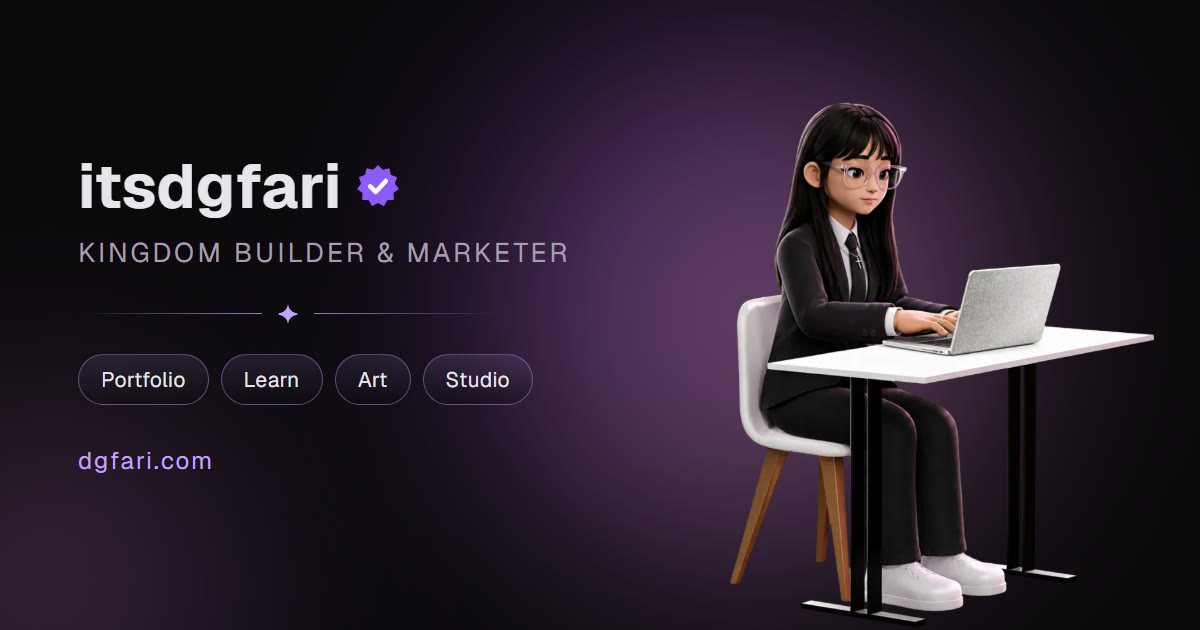
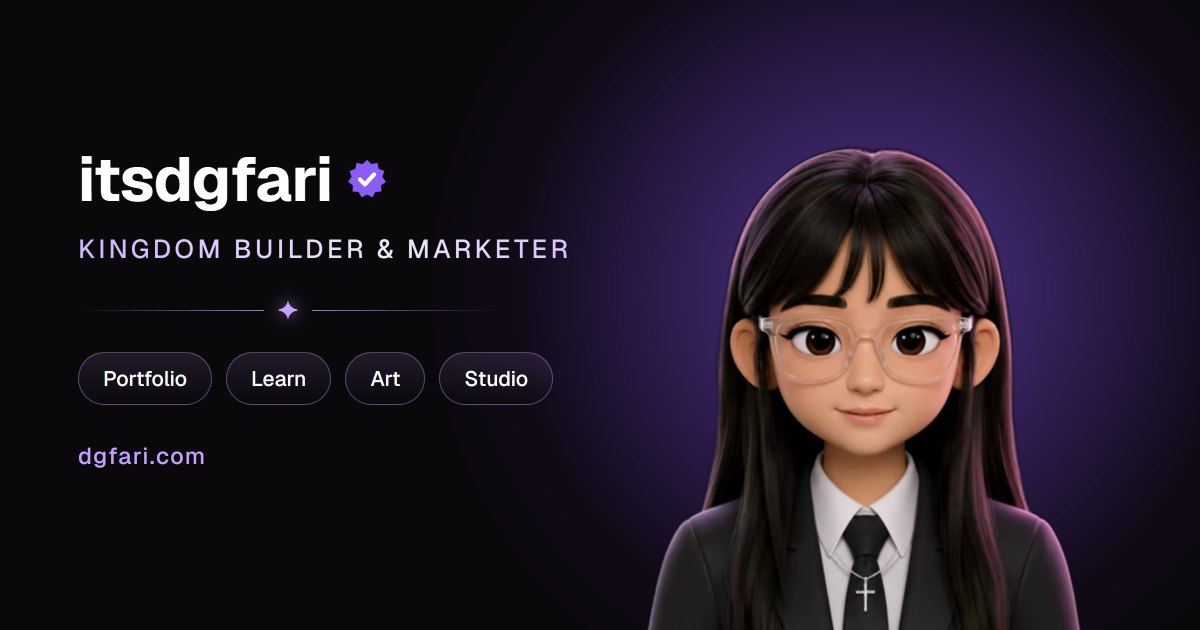
Put the hero character on the link preview card
The card carried the What I Do clip, a small full-body figure at a desk.
It now carries the first frame of the hero video, which is the face that
opens the portfolio and the one worth leading with at the size a preview
actually appears.

Extracted from hero.webm with its alpha intact rather than reusing the
22KB display poster, composed as a portrait that bleeds off the bottom
edge with the violet bloom recentred on her head, and rendered at 2x then
resampled so the type stays sharp.

58KB, down from 65KB. The ?v= query is bumped in all four places it
appears, since every unfurler caches these by URL and would otherwise keep
showing the old card for weeks.

The template, the render script and the extracted frame are kept in
source-assets/og with the steps to redo it.

diff --git a/source-assets/og/og-template.html b/source-assets/og/og-template.html
@@ -1,0 +1,150 @@
+<!doctype html>
+<html>
+<head>
+<meta charset="utf-8">
+<link rel="preconnect" href="https://fonts.googleapis.com">
+<link rel="preconnect" href="https://fonts.gstatic.com" crossorigin>
+<link href="https://fonts.googleapis.com/css2?family=Geist:wght@100..900&display=swap" rel="stylesheet">
+<style>
+  *, *::before, *::after { box-sizing: border-box; }
+  html, body { margin: 0; padding: 0; background: #0b080c; }
+  .card {
+    position: relative;
+    width: 1200px;
+    height: 630px;
+    overflow: hidden;
+    background: #0b080c;
+    font-family: "Geist", system-ui, sans-serif;
+    color: #fff;
+  }
+
+  /* The same violet bloom the character sits inside on the site, centred on
+     her head rather than on the middle of the card. */
+  .glow {
+    position: absolute;
+    top: -160px;
+    left: 424px;
+    width: 900px;
+    height: 900px;
+    border-radius: 50%;
+    background: radial-gradient(
+      circle at center,
+      rgba(139, 92, 246, 0.55) 0%,
+      rgba(120, 70, 220, 0.3) 34%,
+      rgba(60, 30, 110, 0.12) 56%,
+      rgba(11, 8, 12, 0) 72%
+    );
+  }
+
+  .hero {
+    position: absolute;
+    right: 6px;
+    bottom: -16px;
+    width: 668px;
+    height: auto;
+  }
+
+  .left {
+    position: absolute;
+    left: 78px;
+    top: 148px;
+    width: 560px;
+  }
+
+  h1 {
+    display: flex;
+    align-items: center;
+    gap: 14px;
+    margin: 0;
+    font-size: 62px;
+    font-weight: 700;
+    letter-spacing: -0.5px;
+    line-height: 1;
+  }
+
+  .badge { width: 40px; height: 40px; flex-shrink: 0; overflow: visible; }
+
+  .tag {
+    margin: 22px 0 0;
+    font-size: 26px;
+    font-weight: 500;
+    letter-spacing: 3.4px;
+    background: linear-gradient(90deg, #cbb6ff 0%, #efe9f6 55%, #cbb6ff 100%);
+    -webkit-background-clip: text;
+    background-clip: text;
+    color: transparent;
+  }
+
+  .rule {
+    display: flex;
+    align-items: center;
+    gap: 14px;
+    width: 420px;
+    margin: 34px 0 0;
+  }
+  .rule span {
+    flex: 1;
+    height: 1px;
+    background: linear-gradient(90deg, transparent, rgba(194, 164, 255, 0.75));
+  }
+  .rule span:last-child {
+    background: linear-gradient(90deg, rgba(194, 164, 255, 0.75), transparent);
+  }
+  .rule svg {
+    width: 20px;
+    height: 20px;
+    flex-shrink: 0;
+    fill: #c2a4ff;
+    filter: drop-shadow(0 0 8px rgba(194, 164, 255, 0.75));
+  }
+
+  .pills { display: flex; gap: 14px; margin-top: 32px; }
+  .pills span {
+    padding: 12px 24px;
+    font-size: 21px;
+    font-weight: 500;
+    border: 1px solid rgba(194, 164, 255, 0.38);
+    border-radius: 999px;
+    background: linear-gradient(180deg, rgba(194, 164, 255, 0.12), rgba(11, 8, 12, 0.4));
+  }
+
+  .domain {
+    margin: 36px 0 0;
+    font-size: 23px;
+    font-weight: 500;
+    letter-spacing: 1.4px;
+    color: #c2a4ff;
+  }
+</style>
+</head>
+<body>
+<div class="card">
+  <div class="glow"></div>
+  <img class="hero" id="hero" src="">
+
+  <div class="left">
+    <h1>
+      itsdgfari
+      <svg class="badge" viewBox="0 0 48 48">
+        <path fill="#8b5cf6" d="M24.00 1.00 L29.24 6.15 L36.43 4.65 L38.06 11.82 L44.92 14.45 L42.41 21.35 L46.77 27.27 L40.92 31.73 L41.38 39.06 L34.06 39.65 L30.48 46.07 L24.00 42.60 L17.52 46.07 L13.94 39.65 L6.62 39.06 L7.08 31.73 L1.23 27.27 L5.59 21.35 L3.08 14.45 L9.94 11.82 L11.57 4.65 L18.76 6.15 Z"/>
+        <path d="M15.5 24.5 L21.5 30.5 L32.5 18.5" fill="none" stroke="#ffffff" stroke-width="5" stroke-linecap="round" stroke-linejoin="round"/>
+      </svg>
+    </h1>
+
+    <p class="tag">KINGDOM BUILDER &amp; MARKETER</p>
+
+    <div class="rule">
+      <span></span>
+      <svg viewBox="0 0 24 24"><path d="M12 0c.8 6.2 5 10.4 11.2 11.2v1.6C17 13.6 12.8 17.8 12 24c-.8-6.2-5-10.4-11.2-11.2v-1.6C7 10.4 11.2 6.2 12 0z"/></svg>
+      <span></span>
+    </div>
+
+    <div class="pills">
+      <span>Portfolio</span><span>Learn</span><span>Art</span><span>Studio</span>
+    </div>
+
+    <p class="domain">dgfari.com</p>
+  </div>
+</div>
+</body>
+</html>

diff --git a/index.html b/index.html
@@ -23,7 +23,7 @@
          not resolve a root-relative og:image. Width and height let them lay the
          card out before the image has finished downloading, which is the
          difference between a large card and a small one in some clients. -->
-    <meta property="og:image" content="https://dgfari.com/dgfari-og.jpg?v=2" />
+    <meta property="og:image" content="https://dgfari.com/dgfari-og.jpg?v=3" />
     <meta property="og:image:width" content="1200" />
     <meta property="og:image:height" content="630" />
     <meta property="og:image:type" content="image/jpeg" />
@@ -41,7 +41,7 @@
     <meta name="twitter:card" content="summary_large_image" />
     <meta name="twitter:title" content="DGFari" />
     <meta name="twitter:description" content="Kingdom builder and marketer. Portfolio, writing, art and studio, all in one place." />
-    <meta name="twitter:image" content="https://dgfari.com/dgfari-og.jpg?v=2" />
+    <meta name="twitter:image" content="https://dgfari.com/dgfari-og.jpg?v=3" />
     <meta name="twitter:image:alt" content="itsdgfari, kingdom builder and marketer: portfolio, learn, art and studio" />
   </head>
   <body>

diff --git a/src/components/ShareButton.tsx b/src/components/ShareButton.tsx
@@ -15,7 +15,7 @@ interface Props {
 
 const ShareButton = ({
   url,
-  image = "/dgfari-og.jpg?v=2",
+  image = "/dgfari-og.jpg?v=3",
   // The name on the preview card, sitting above the domain. The wordmark on
   // the page is lowercase; this is the brand.
   title = "DGFari",

diff --git a/src/components/SEO.tsx b/src/components/SEO.tsx
@@ -1,7 +1,7 @@
 import { useEffect } from "react";
 
 const SITE_URL = "https://dgfari.com";
-const DEFAULT_IMAGE = "/dgfari-og.jpg?v=2";
+const DEFAULT_IMAGE = "/dgfari-og.jpg?v=3";
 
 interface Props {
   title: string;

diff --git a/source-assets/og/README.md b/source-assets/og/README.md
@@ -1,0 +1,38 @@
+# The link preview card
+
+`public/dgfari-og.jpg` is what unfurls when someone pastes a dgfari.com link
+into X, LinkedIn, iMessage, WhatsApp or Slack, and it is also the preview shown
+inside the site's own share sheet.
+
+## Regenerating it
+
+```
+node render-og.mjs
+```
+
+Run it from this folder with a Chrome install present. It renders
+`og-template.html` at 1200x630 with a 2x device pixel ratio, waits for Geist to
+load from Google Fonts rather than screenshotting the fallback, then resamples
+down to 1200x630 and writes JPEGs at three qualities so the smallest one that
+still holds up can be chosen by looking rather than by guessing.
+
+Copy the chosen file to `public/dgfari-og.jpg` and **bump the `?v=` query in all
+four places**: `src/components/SEO.tsx`, `src/components/ShareButton.tsx`, and
+the two meta tags in `index.html`. Every unfurler caches these aggressively by
+URL, so without the bump the old card keeps appearing for weeks.
+
+## What is in it
+
+The left column is the wordmark, the tagline, the sparkle rule, the four
+destinations and the domain. The right is `hero-f0.png`, the first frame of
+`public/videos/character/hero.webm` extracted with its alpha intact:
+
+```
+ffmpeg -c:v libvpx-vp9 -i ../../public/videos/character/hero.webm -frames:v 1 hero-f0.png
+```
+
+The `-c:v libvpx-vp9` before `-i` is load-bearing. Without it ffmpeg picks a
+decoder that drops the alpha channel and the cutout comes out on black.
+
+Keep it at 1200x630. Anything else gets letterboxed or cropped by one platform
+or another, and the crop is never the one you would have chosen.
